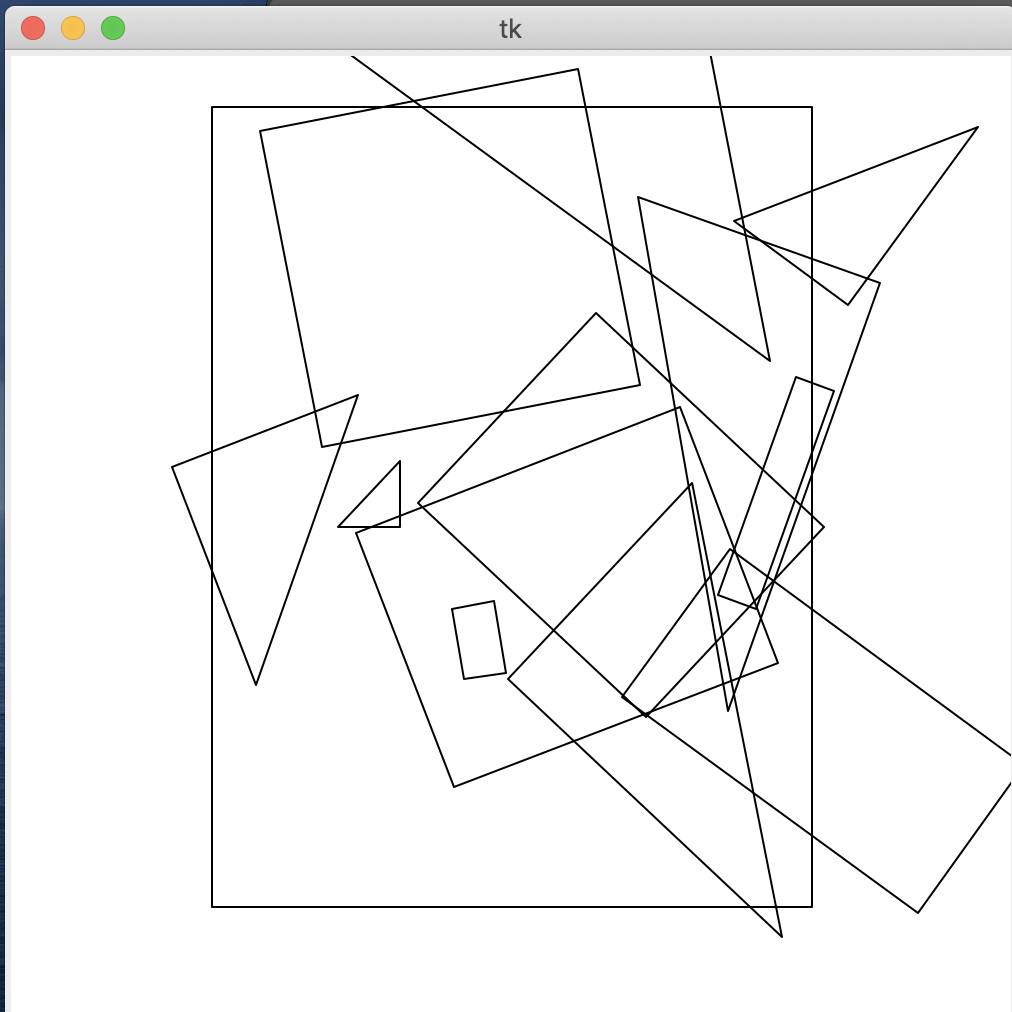
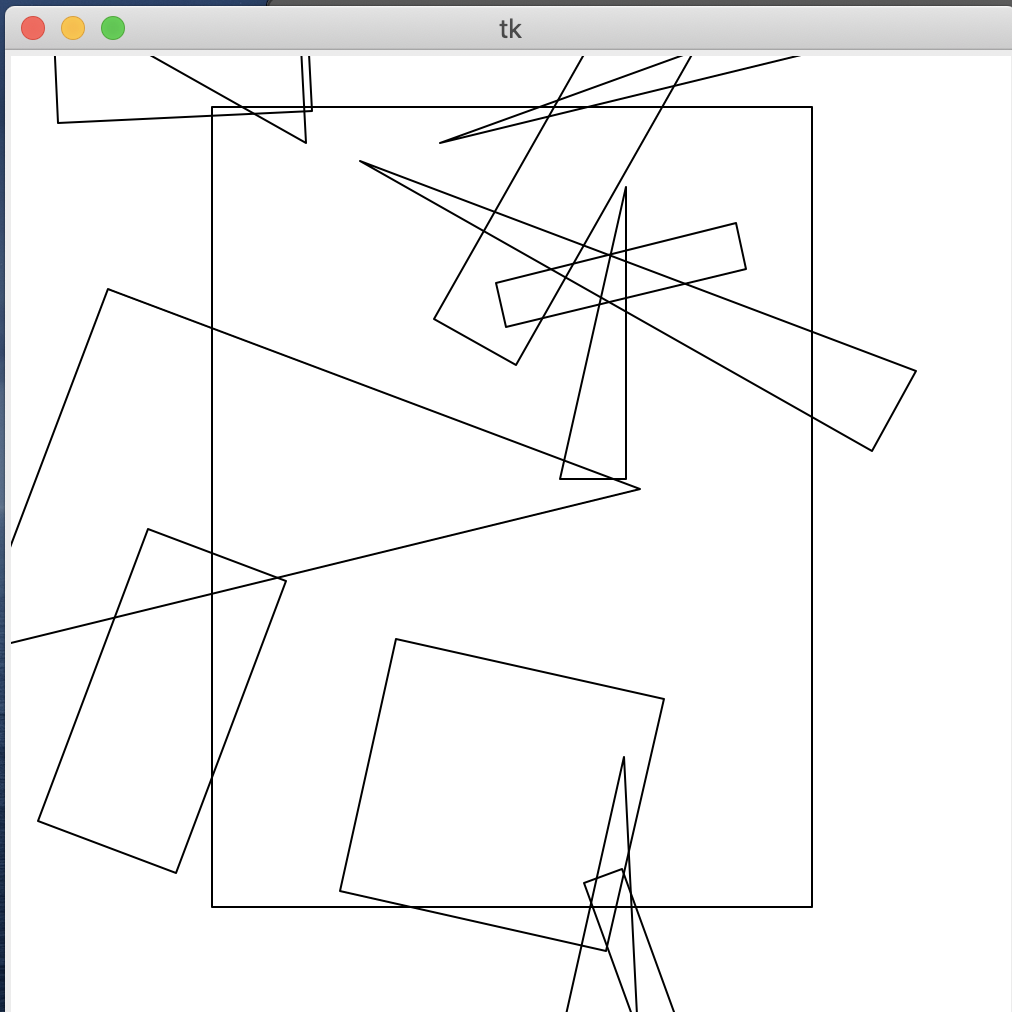
added example images, cleaned up code

diff --git a/turtletest.py b/turtletest.py
@@ -25,7 +25,8 @@ def dump_gui():
     y0 = root.winfo_rooty()
     x1 = x0 + 2*root.winfo_width()
     y1 = y0 + 2*root.winfo_height()
-    ImageGrab.grab().crop((x0, y0, x1, y1)).save("gui_image_grabbed1.png")
+    figurename = input("save as?")
+    ImageGrab.grab().crop((x0, y0, x1, y1)).save("gui_image_grabbed_" + figurename + ".png")
 
 def draw_sierpinski(length, depth):
     if depth == 0:
@@ -141,6 +142,11 @@ def rand_rotate():
     else:
         t.right(rand_angle())
 
+def center():
+    t.penup()
+    t.goto(start_x + length/2, start_y + width/2)
+    t.pendown()
+
 def concept1():
     """
     draws randomly created right-triangles and rectangles 
@@ -153,39 +159,52 @@ def concept1():
         rand_rotate()
         quadrilateral(rand_size(200), rand_size(200))
 
-def concept2():
+def concept2(rotation_amt = 60,radius = 70):
     """
     draws rotating circles at the center of the frame
     """
-    t.penup()
-    t.goto(start_x + length/2, start_y + width/2)
-    t.pendown()
-    for i in range(0,6):
-        t.circle(70)
-        t.left(60)
+    center()
+    for i in range(0,360, rotation_amt):
+        t.circle(radius)
+        t.left(rotation_amt)
 
-def concept3():
+def concept3(rotation_amt = 60, size = 80):
     """
     draws rotating squares at the center of the frame
     """
-    t.penup()
-    t.goto(start_x + length/2, start_y + width/2)
-    t.pendown()
-    for i in range(0, 6):
-        quadrilateral(80,80)
-        t.left(60)
+    center()
+    for i in range(0, 360, rotation_amt):
+        quadrilateral(size, size)
+        t.left(rotation_amt)
 
 def concept4():
     """
     draws randomly created triangles and rectangles
     """
-    for i in range(0, 3):
+    for i in range(0, 4):
         change_location()
         rand_rotate()
         triangle(rand_size(300), rand_size(300), rand_size(300))
         change_location()
         rand_rotate()
         quadrilateral(rand_size(200), rand_size(200))
+
+def concept5(radius=100, number=10):
+    """
+    creates the stated concentric number of circles.
+
+    number - distance between consecutive circles
+    radius - radius of largest circle
+
+    since it creates circles by filling in with bucket tool, 
+    if you would like to use this 
+    with other concepts,
+    use this one FIRST.
+    """
+    center()
+    for diameter in range(radius * 2, 0, -2*number):
+        t.dot(diameter, 'black')
+        t.dot(diameter - 2, 'white')
 
 if __name__ == "__main__":
     length = 300 #x
@@ -204,14 +223,14 @@ if __name__ == "__main__":
     #different ideas: uncomment at will to check them out. 
     # You can experiment with trying more than one concept at a time.
 
+    concept5(number=20)
     #concept1()
-    #concept2()
-    #concept3()
-    concept4()
+    concept2()
+    concept3()
+    #concept4()
     
 
     #print(t.pos())
-    #triangle(80,70,70)
 
     t.hideturtle()
 
